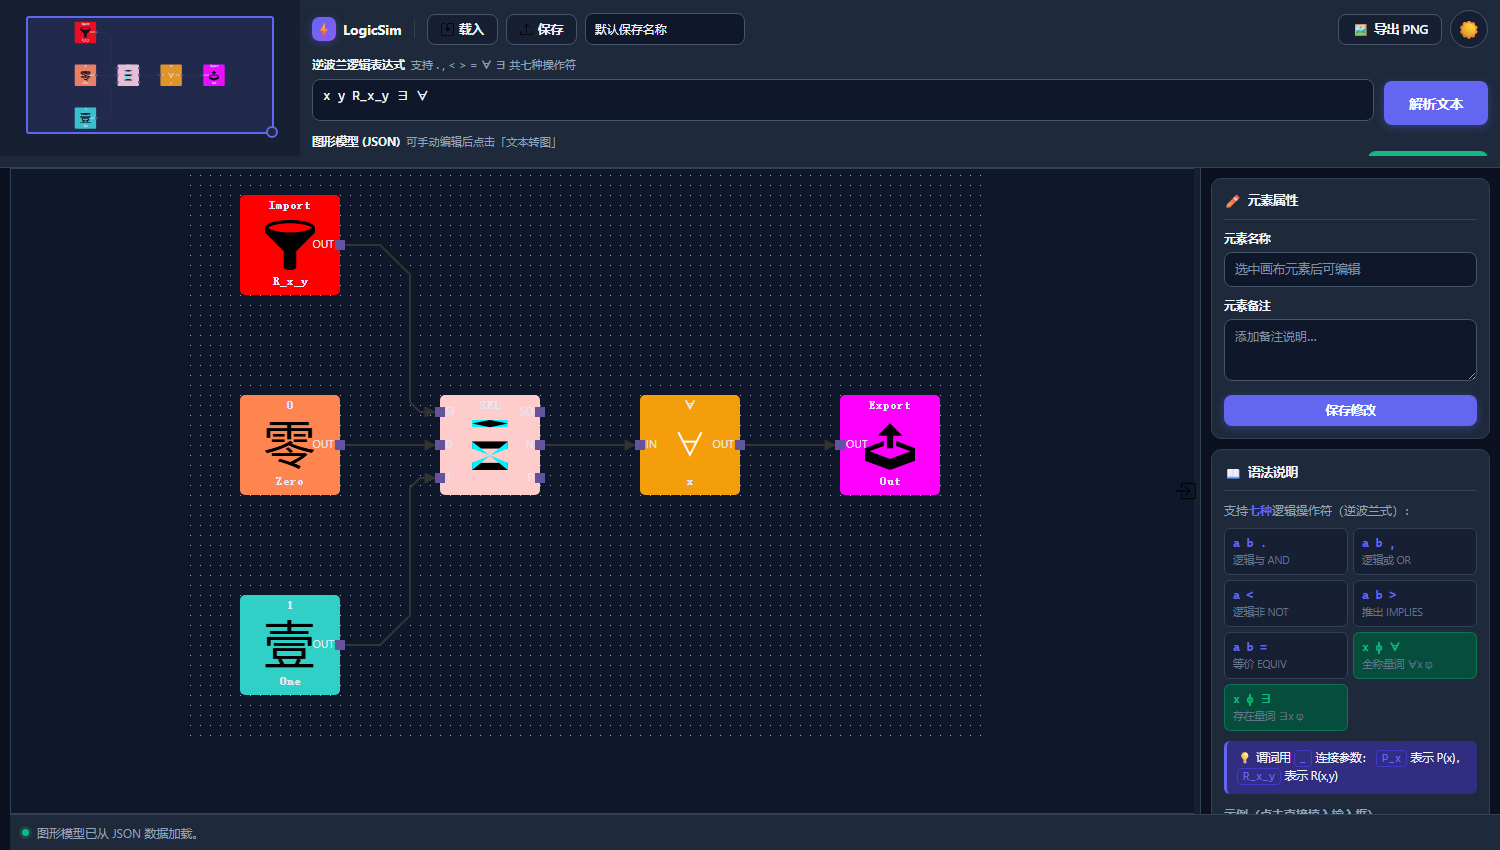
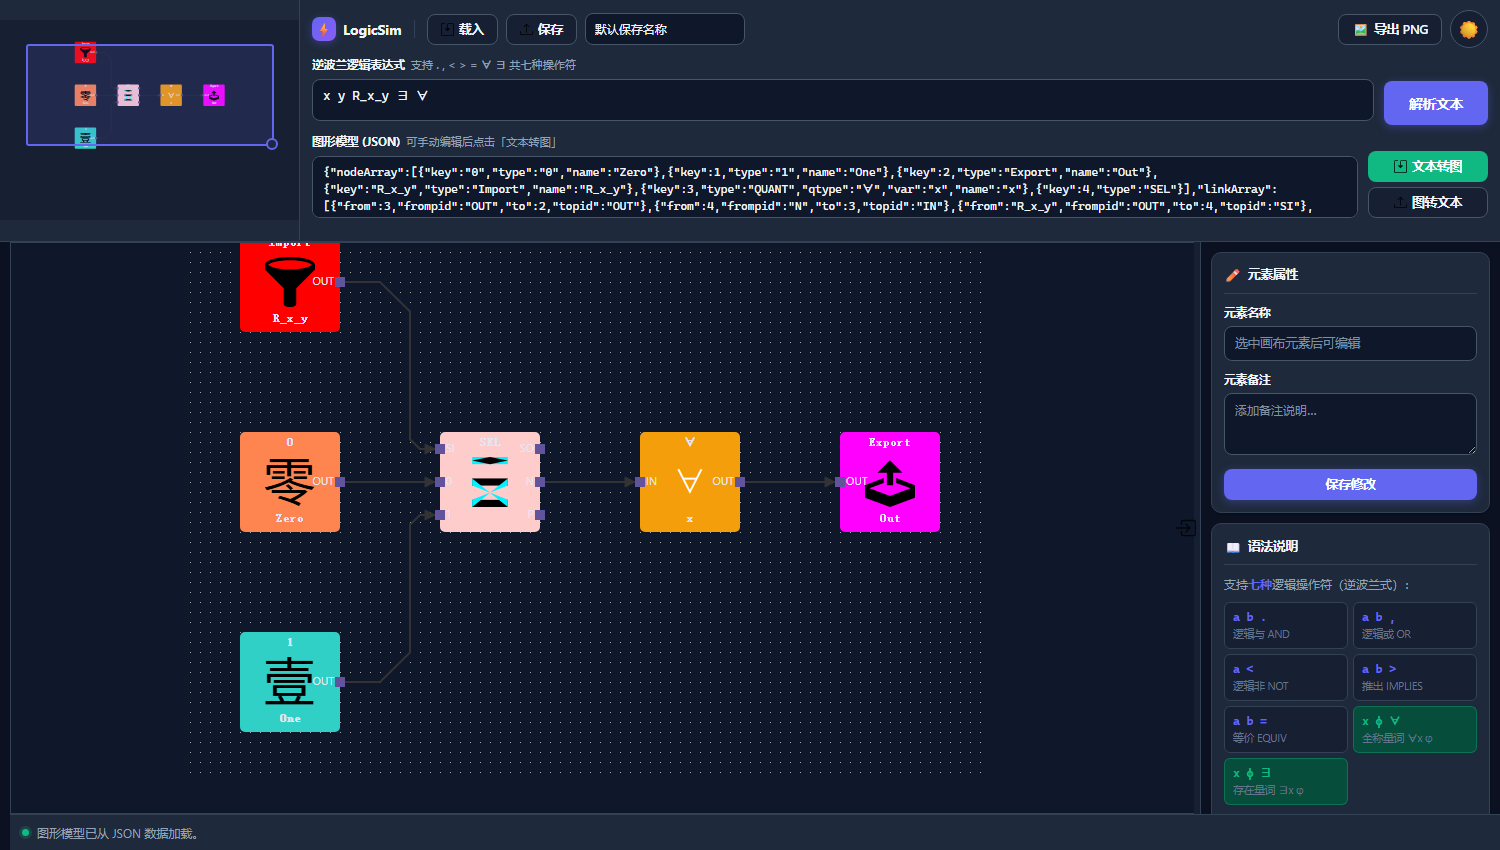
fix(ui): 修正顶部工具区预留高度 + 更新截图
- app-header 168px→242px，title-container→240px
- 小地图 300x200 垂直居中
- 更新 README 截图(布局修复后)
- 新增 ?diag=1 布局诊断参数

diff --git a/public/style.css b/public/style.css
@@ -119,11 +119,13 @@ body {
     font-size: 100px;
 }
 
-/* ---------- 顶部区域 ---------- */
+/* ---------- 顶部区域 ----------
+   高度构成（实测）：padding 20 + 工具栏行 46 + 表达式行 74 + 模型行 92 ≈ 232px
+   预留 240px 保证三行内容完整显示，不出现裁剪或滚动条 */
 .app-header {
     position: relative;
     width: 100%;
-    height: 168px;
+    height: 242px;
     background-color: var(--bg-header);
     border-bottom: 1px solid var(--border);
     transition: background-color 0.2s ease, border-color 0.2s ease;
@@ -131,10 +133,12 @@ body {
 
 .header-left {
     position: relative;
-    display: inline-block;
+    display: inline-flex;
+    align-items: center;
+    justify-content: center;
     vertical-align: top;
     width: 300px;
-    height: 156px;
+    height: 240px;
     padding: 0;
     border-right: 1px solid var(--border);
 }
@@ -173,12 +177,12 @@ body {
     background-color: var(--border);
 }
 
-/* 小地图（宽度 300px 与 ViewGen.js 的缩放基准一致） */
+/* 小地图（宽度 300px 与 ViewGen.js 的缩放基准一致；高度取内容比例的舒适值） */
 .mini-map {
     position: relative;
     display: block;
     width: 300px;
-    height: 156px;
+    height: 200px;
     padding: 0;
     border: none;
     border-radius: 0;
@@ -233,7 +237,7 @@ body {
     top: 0;
     left: 300px;
     right: 0;
-    height: 156px;
+    height: 240px;
     padding: 10px 12px;
     overflow: auto;
 }
@@ -472,7 +476,7 @@ label.btn {
 /* ---------- 主体区域 ---------- */
 .app-body {
     position: relative;
-    height: calc(100% - 168px);
+    height: calc(100% - 242px);
 }
 
 .left-container {
@@ -865,7 +869,7 @@ label.btn {
 @media (max-width: 640px) {
     .app-header {
         height: auto;
-        min-height: 168px;
+        min-height: 242px;
     }
 
     .title-container {
@@ -884,7 +888,7 @@ label.btn {
     }
 
     .app-body {
-        height: calc(100% - 300px);
+        height: calc(100% - 360px);
     }
 
     .right-container {

diff --git a/public/index.html b/public/index.html
@@ -334,6 +334,29 @@
             }
         });
 
+        /* ---------- 布局诊断（?diag=1）：检查顶部工具区是否溢出 ---------- */
+        (function () {
+            var diag = null;
+            try { diag = new URLSearchParams(location.search).get('diag'); } catch (e) { }
+            if (!diag) { return; }
+            setTimeout(function () {
+                try {
+                    var header = document.querySelector('.app-header');
+                    var tc = document.querySelector('.title-container');
+                    var body = document.querySelector('.app-body');
+                    var info = [
+                        'header=' + (header ? header.clientHeight : '?'),
+                        'tc.client=' + (tc ? tc.clientHeight : '?'),
+                        'tc.scroll=' + (tc ? tc.scrollHeight : '?'),
+                        'tc.overflow=' + (tc && tc.scrollHeight > tc.clientHeight + 2 ? 'YES' : 'no'),
+                        'body=' + (body ? body.clientHeight : '?'),
+                        'innerH=' + window.innerHeight
+                    ].join('|');
+                    document.documentElement.setAttribute('data-layout-diag', info);
+                } catch (e) { }
+            }, 800);
+        })();
+
         /* ---------- 点击示例填入输入框 ---------- */
         function fillExample(expr) {
             var input = document.getElementById('ReversePol');
